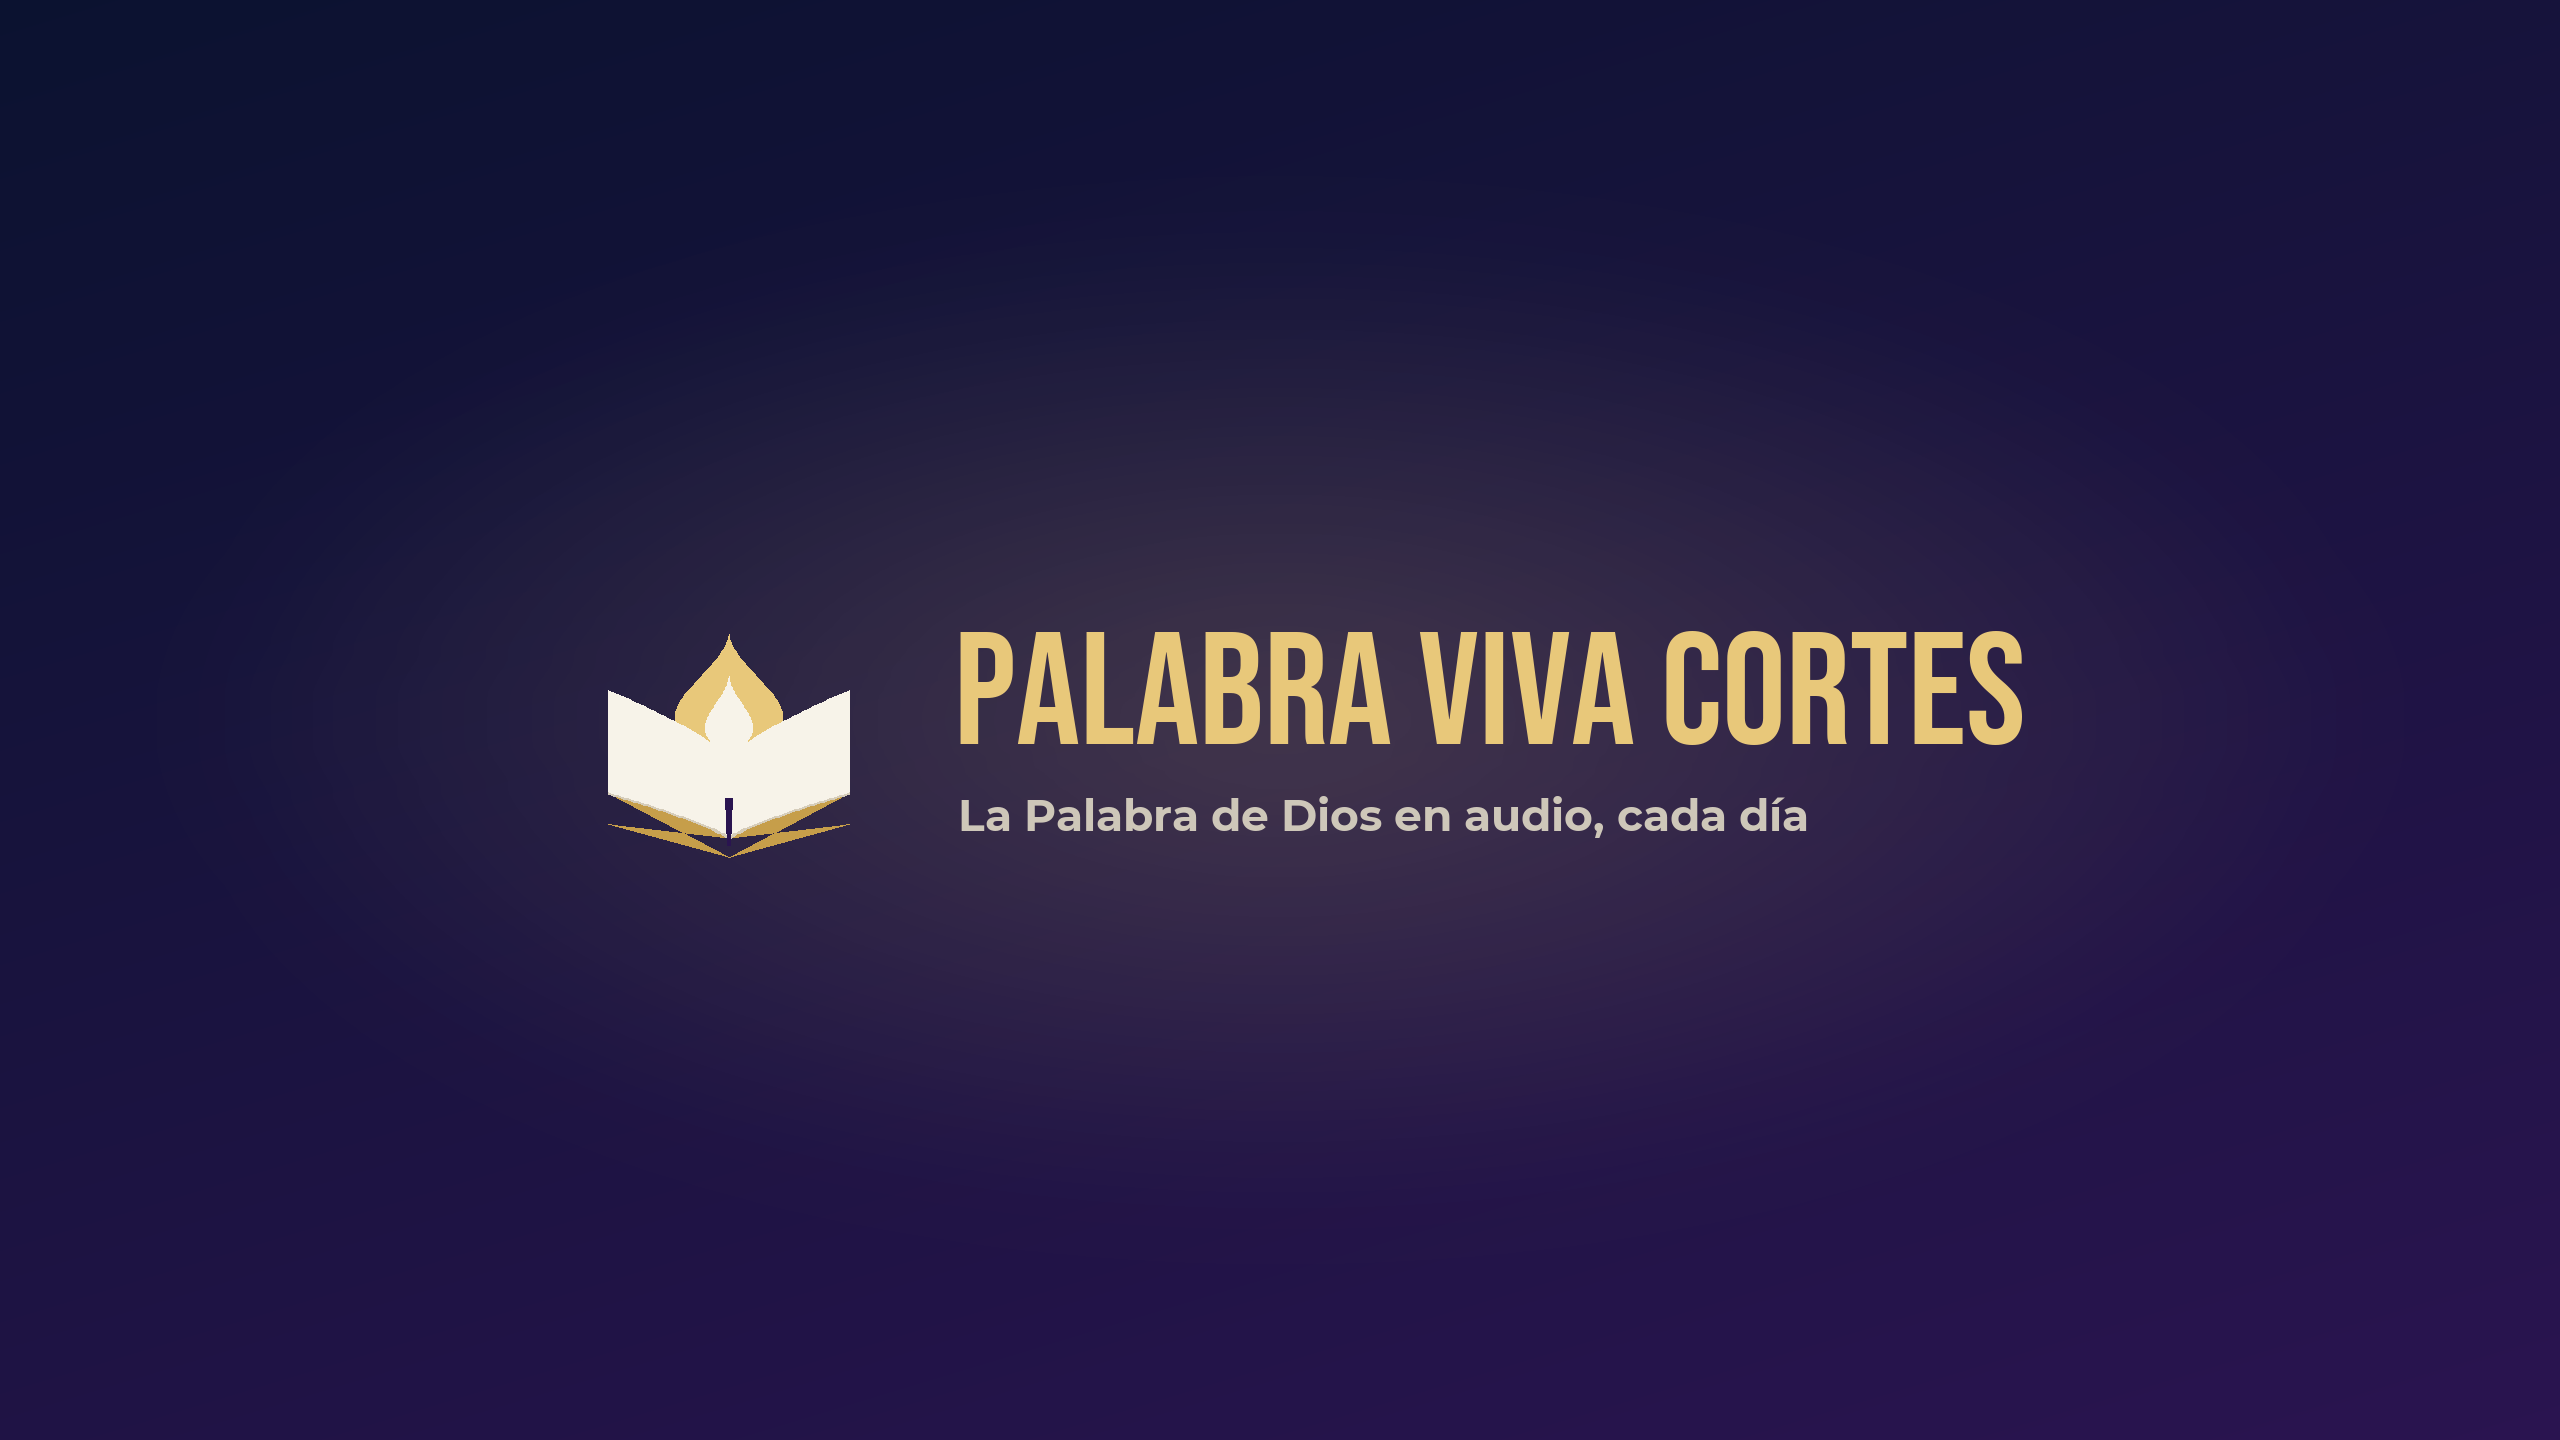
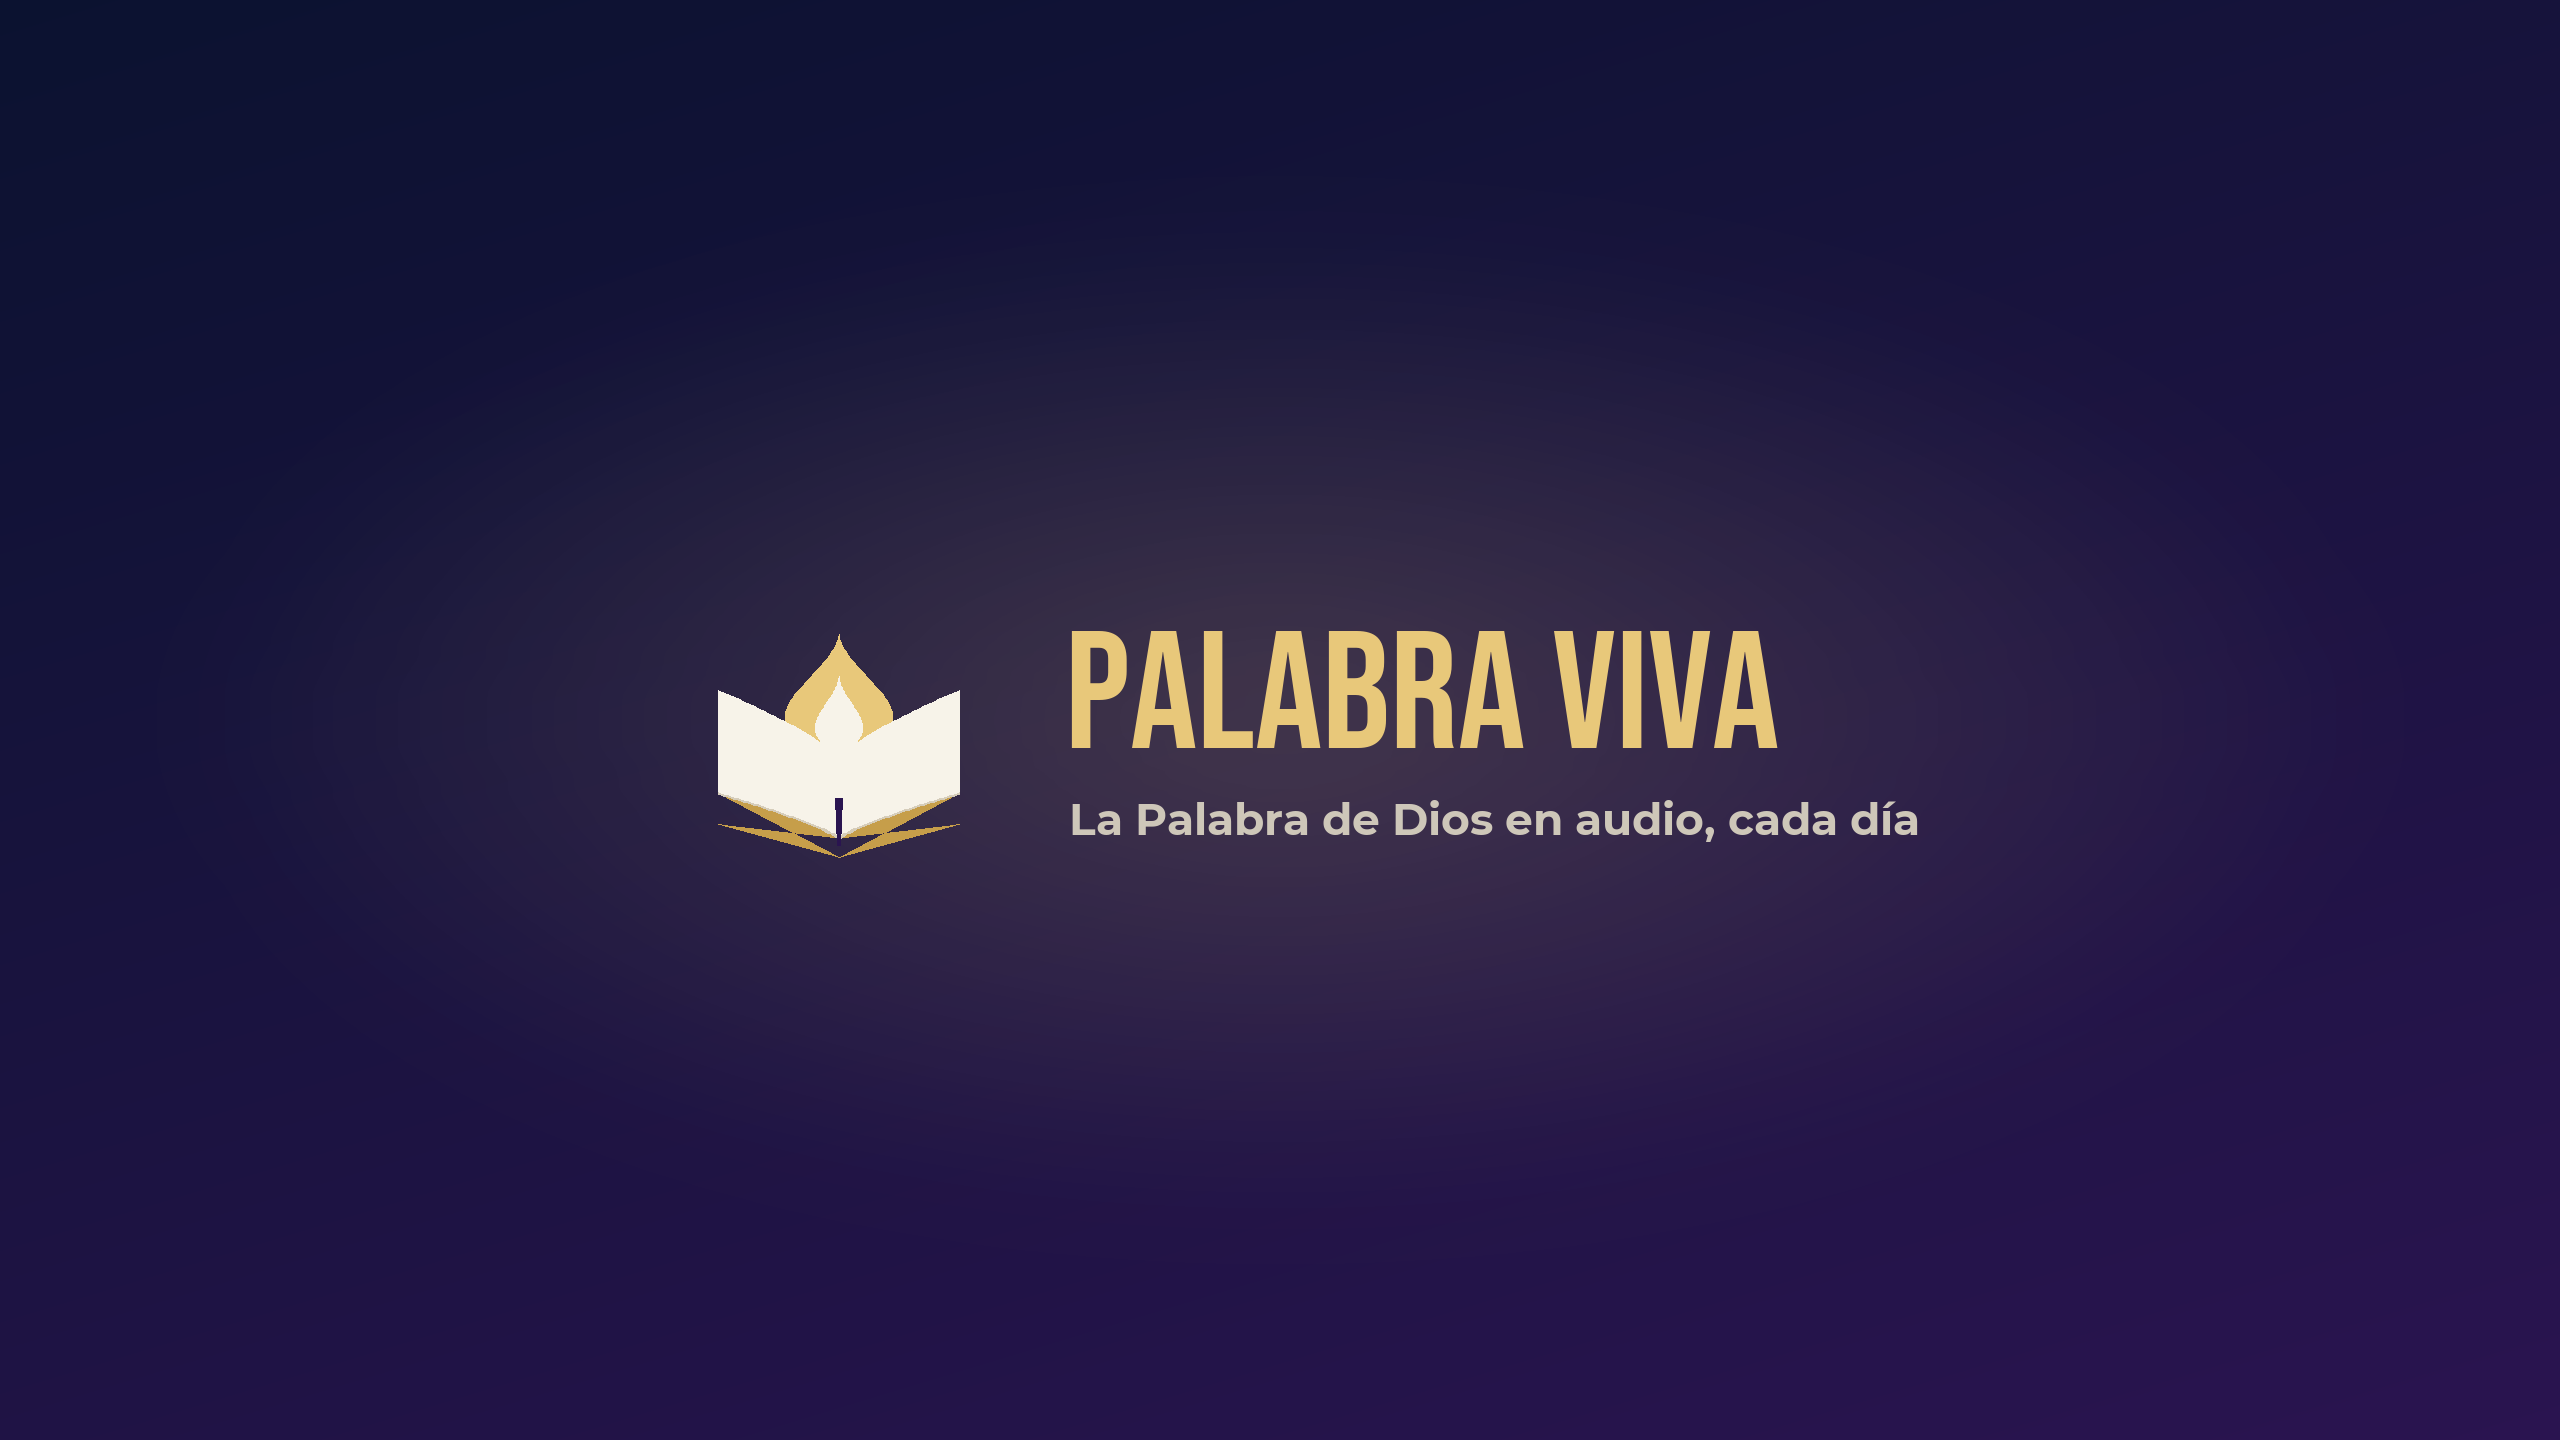
Canal ES: tira 'Cortes' da marca — capa nova e rebrand documentado
O canal publica longos desde 19/07 e nunca foi de cortes de terceiros.
Capa regerada com o wordmark PALABRA VIVA e aplicada por API; nome e handle
ficam para 20/08 (YouTube travou a troca de nome por 24h).

Changed region(s): [[0.2188, 0.4375, 0.8125, 0.5938]]

diff --git a/marca/gerar_marca.py b/marca/gerar_marca.py
@@ -32,7 +32,7 @@ PAGINA_SOMBRA = (214, 205, 186)
 CINZA = (206, 199, 185)
 
 CANAIS = {
-    "es": ("PALABRA VIVA CORTES", "La Palabra de Dios en audio, cada día"),
+    "es": ("PALABRA VIVA", "La Palabra de Dios en audio, cada día"),
     "en": ("LIVING WORD DAILY", "God's Word in audio, every day"),
     "pt": ("PALAVRA VIVA DIÁRIA", "A Palavra de Deus em áudio, todos os dias"),
 }

diff --git a/CLAUDE.md b/CLAUDE.md
@@ -31,12 +31,58 @@ caminho hoje**. Não estimar inscritos: canal sem medição entra como "não med
 
 | Idioma | Canal | Conta Google | Secrets |
 |---|---|---|---|
-| es | Palabra Viva Cortes (`UCIh5XGRGc2t4rLmlukHZOgw`) | Gmail pessoal | `YT_CLIENT_SECRET_ES` / `YT_TOKEN_ES` |
+| es | Palabra Viva Cortes → **rebrand em curso**, ver abaixo (`UCIh5XGRGc2t4rLmlukHZOgw`) | Gmail pessoal | `YT_CLIENT_SECRET_ES` / `YT_TOKEN_ES` |
 | en | Living Word Daily (ex-Corte em Pauta, `UCi0VMppJlwroIUcxUP5L7DQ`) | Gmail pessoal | `YT_CLIENT_SECRET_EN` / `YT_TOKEN_EN` |
 | pt | Palavra Viva Diária (channel_id em publicador/config.json quando criado) | Gmail pessoal | `YT_CLIENT_SECRET_PT` / `YT_TOKEN_PT` |
 
 Cada canal tem projeto Google Cloud PRÓPRIO (quota de 10k/dia não é dividida).
 App OAuth precisa estar **em produção**, senão o refresh token morre em 7 dias.
+
+## Rebrand do canal ES: sai a palavra "Cortes" (19/08/2026)
+
+O canal nunca foi de cortes de terceiros (diretriz nº 5 sempre proibiu isso) e
+publica vídeo LONGO desde 19/07. O nome "Palabra Viva Cortes" era herança do
+Radar Geek e descrevia errado o que o canal faz. Decisão do Diego em 19/08.
+
+**Feito em 19/08**
+
+- **Capa nova** (`marca/banner-es.png`): wordmark passou a ser só
+  **PALABRA VIVA**, com a tagline "La Palabra de Dios en audio, cada día".
+  Aplicada por API (`channelBanners.insert` + `channels.update`) — essa parte
+  tem API e não precisa do Studio.
+- `defaultLanguage` do canal corrigido de `en` para `es` (o canal aparecia com
+  localização en_US). Efeito colateral: o YouTube criou a localização `es_ES`
+  congelando o título atual — atualizar junto quando o nome mudar.
+- A **descrição** do canal nunca teve a palavra "cortes"; nada a limpar lá.
+
+**Pendente — nome e handle, só a partir de 20/08**
+
+O YouTube devolveu `TITLE_UPDATE_ERROR_NAME_CHANGE_QUOTA_EXCEEDED`
+("você inseriu muitos nomes que não podem ser usados, tente em 24 horas"):
+as tentativas com "Palabra Viva Diaria" foram **recusadas por política de nome**
+— `@PalabraVivaDiaria`, `@PalabraVivaCadaDia` e `@PalabraVivaBiblia` são canais
+que JÁ EXISTEM, e o YouTube barra nome igual ao de canal existente. Foi o mesmo
+erro que barrou "Noche Estoica" em 02/08.
+
+- **Nome escolhido**: **Palabra Viva en Audio** · handle **@PalabraVivaEnAudio**
+  (conferido: handle livre, e não há canal com esse nome).
+- **Plano B**: "Palabra Viva Salmos" / `@PalabraVivaSalmos` (também livre).
+- Onde muda: Studio → Personalização → Informações básicas. O nome NÃO tem API:
+  `channels.update` aceita `brandingSettings.channel.title` no corpo e **ignora
+  silenciosamente** (devolve 200 com o título antigo). Só o endpoint interno
+  `youtubei/v1/channel_edit/update_channel_page_settings` grava, e é o Studio
+  quem o chama. O erro real vem em `titleUpdateStatus` da resposta — ler esse
+  campo, senão parece sucesso.
+- Depois de trocar: atualizar `titulo_canal` e `handle` em
+  `publicador/config.json`. **O handle é queimado na legenda de todo Short e
+  longo** (`fabrica.montar_short/montar_longo` → `legendas.ass_*`) e na capa,
+  então até isso os vídeos novos continuam estampando @PalabraVivaCortes.
+- Rodar depois o workflow **Realinhar descrições** (`-f canal=es`) para os
+  vídeos antigos.
+
+⚠ Chrome: o Studio deste canal está na conta pessoal, que neste perfil do Chrome
+é **authuser=0** (o padrão do YouTube abre em diego@perffec.com.br). URL certa:
+`studio.youtube.com/channel/UCIh5XGRGc2t4rLmlukHZOgw/editing/profile?authuser=0`.
 
 ## Arquitetura — fila leve, render na hora de publicar
 

diff --git a/CANAIS.md b/CANAIS.md
@@ -8,7 +8,7 @@
 
 | Canal | Plataforma | Ritmo | Motor (pasta) | Conta |
 |---|---|---|---|---|
-| **Palabra Viva Cortes** `@PalabraVivaCortes` | YouTube ES | 3 Shorts + 1 longo/dia | `Palavra-Viva-3x` | Gmail pessoal |
+| **Palabra Viva Cortes** `@PalabraVivaCortes` (rebrand para **Palabra Viva en Audio** / `@PalabraVivaEnAudio` a partir de 20/08 — ver CLAUDE.md) | YouTube ES | 3 Shorts + 1 longo/dia | `Palavra-Viva-3x` | Gmail pessoal |
 | **Palavra Viva Diária** `@PalavraVivaDiária-biblia` | YouTube PT | **1 Short + 1 longo/dia** (cortado 15/08) | `Palavra-Viva-3x` | Gmail pessoal |
 | **La Noche Estoica** `@LaNocheEstoica` | YouTube ES | 1 Short/dia, 01 UTC | `Palavra-Viva-3x` | Gmail pessoal |
 | **Astucia Fría** `@AstuciaFria` | YouTube ES | 1 Short/dia, 01 UTC | `psicologia-fria` ⚠ | Gmail pessoal |
